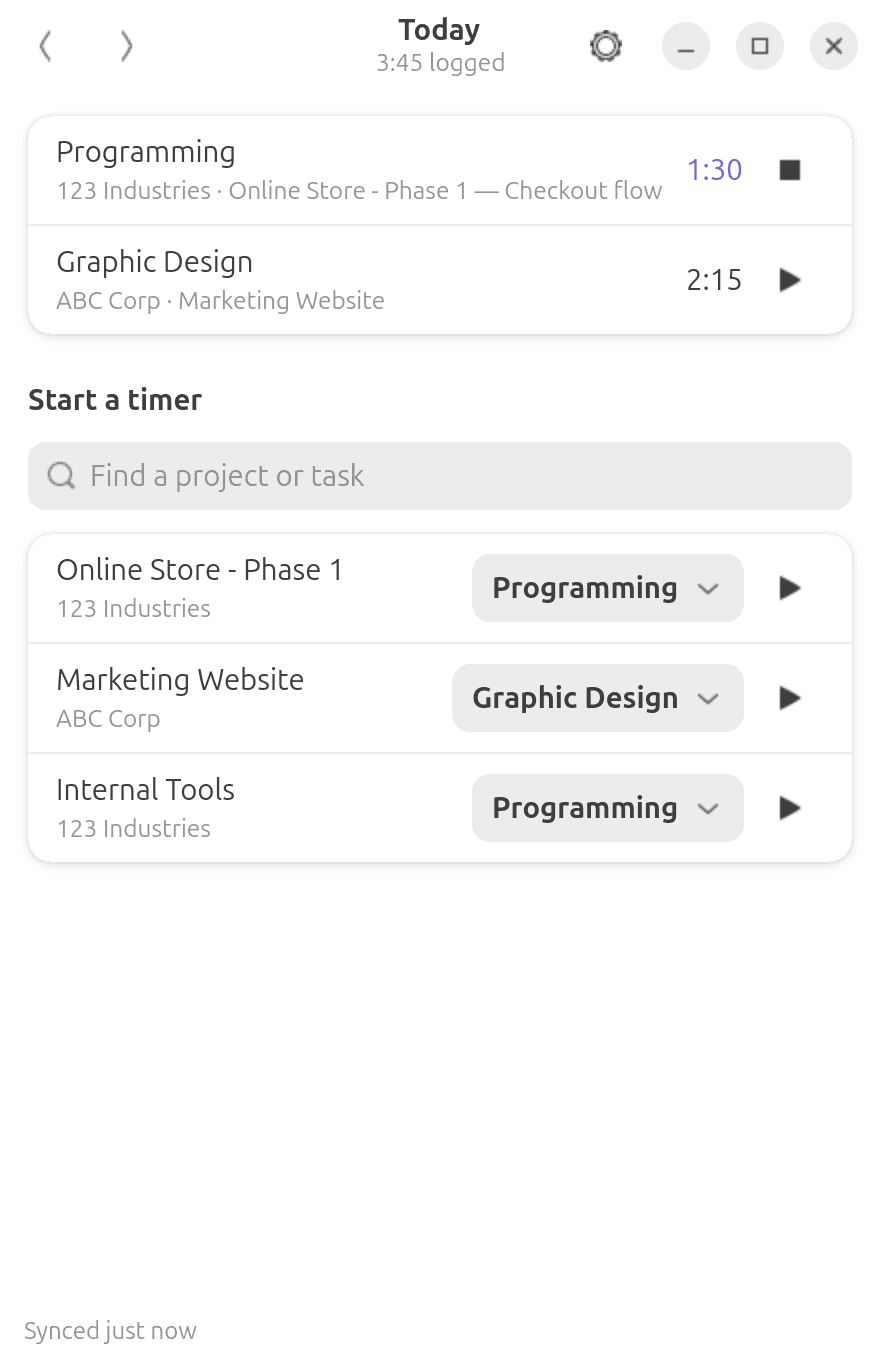
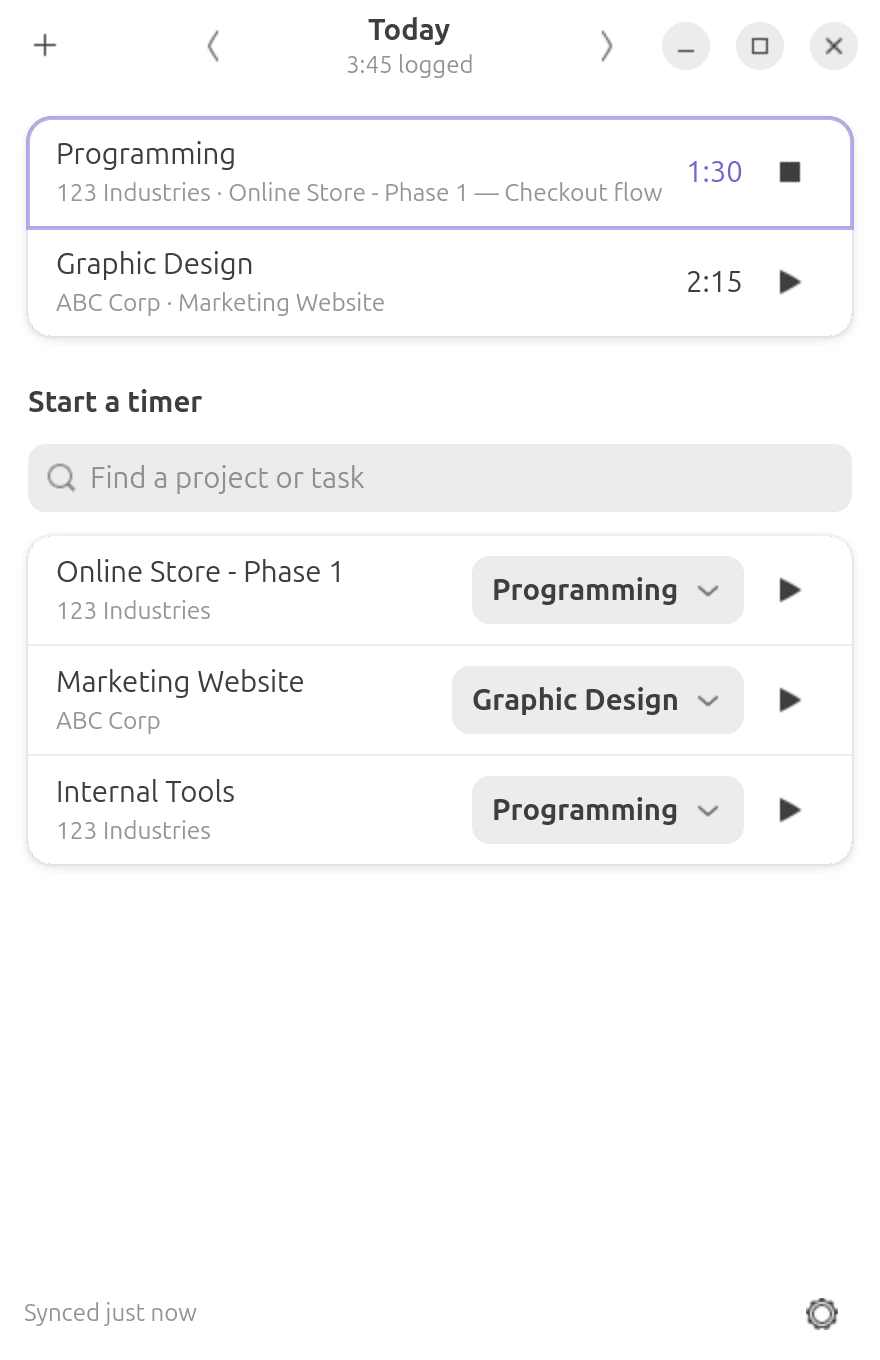
Put the GNOME window's day between its arrows, as the Mac's panel does
The arrows sat at the window's edge with the day centred over the whole window,
and a Today button beside a full date crowded the header. Now the day sits
between its arrows at a fixed width, so they do not move as its name changes,
with the total beneath and, on another day, a "Back to today" link. The month
is abbreviated, as on the Mac. + moves to the start of the header and Settings
to the footer, which leaves room to centre the day.

diff --git a/crates/sheaves-gnome/src/window.rs b/crates/sheaves-gnome/src/window.rs
@@ -33,8 +33,9 @@ pub enum Action {
 
 pub struct Window {
     pub window: adw::ApplicationWindow,
-    title: adw::WindowTitle,
-    today: gtk::Button,
+    day: gtk::Label,
+    total: gtk::Label,
+    today: gtk::Label,
     banner: adw::Banner,
     entries: gtk::ListBox,
     no_entries: gtk::Label,
@@ -52,24 +53,55 @@ pub struct Window {
 
 impl Window {
     pub fn new(app: &adw::Application, actions: async_channel::Sender<Action>) -> Rc<Self> {
-        let title = adw::WindowTitle::new("Sheaves", "");
         let back = gtk::Button::from_icon_name("go-previous-symbolic");
         back.set_tooltip_text(Some("Previous day"));
         let forward = gtk::Button::from_icon_name("go-next-symbolic");
         forward.set_tooltip_text(Some("Next day"));
-        let today = gtk::Button::with_label("Today");
+        // The day between its arrows, as the Mac's panel has it, rather than the
+        // arrows at the window's edge and the day adrift in the middle. Beneath
+        // it the day's total, and on any other day a way back to today, which
+        // as a button of its own crowded a long date.
+        let day = gtk::Label::new(None);
+        day.add_css_class("heading");
+        day.set_ellipsize(gtk::pango::EllipsizeMode::End);
+        let total = gtk::Label::new(None);
+        total.add_css_class("caption");
+        total.add_css_class("dim-label");
+        // A link in a label rather than a link button, whose padding made the
+        // header taller and the window wider.
+        let today = gtk::Label::new(None);
+        today.set_markup("<a href=\"today\">Back to today</a>");
+        today.add_css_class("caption");
+        let below = gtk::Box::new(gtk::Orientation::Horizontal, 6);
+        below.set_halign(gtk::Align::Center);
+        below.append(&total);
+        below.append(&today);
+        // A fixed width, so the arrows stay where they are as the day's name
+        // changes length: clicking back twice would otherwise miss the second
+        // time. Wide enough for the line with the way back to today.
+        let named = gtk::Box::new(gtk::Orientation::Vertical, 0);
+        named.set_valign(gtk::Align::Center);
+        named.set_size_request(150, -1);
+        named.append(&day);
+        named.append(&below);
+        back.set_valign(gtk::Align::Center);
+        forward.set_valign(gtk::Align::Center);
+        let title = gtk::Box::new(gtk::Orientation::Horizontal, 6);
+        title.append(&back);
+        title.append(&named);
+        title.append(&forward);
         let log_time = gtk::Button::from_icon_name("list-add-symbolic");
         log_time.set_tooltip_text(Some("Log time without a timer"));
         let settings = gtk::Button::from_icon_name("emblem-system-symbolic");
         settings.set_tooltip_text(Some("Settings"));
 
         let header = adw::HeaderBar::new();
+        // Only + beside the day, at the start where GNOME puts "add": with
+        // Settings there too, and the window's own buttons, the day could not be
+        // centred at the window's usual width. Settings is in the footer, as on
+        // the Mac.
         header.set_title_widget(Some(&title));
-        header.pack_start(&back);
-        header.pack_start(&forward);
-        header.pack_start(&today);
-        header.pack_end(&settings);
-        header.pack_end(&log_time);
+        header.pack_start(&log_time);
 
         let banner = adw::Banner::new("");
 
@@ -132,7 +164,10 @@ impl Window {
         footer.set_margin_end(12);
         footer.set_margin_top(6);
         footer.set_margin_bottom(6);
+        status.set_hexpand(true);
+        settings.add_css_class("flat");
         footer.append(&status);
+        footer.append(&settings);
 
         let body = gtk::Box::new(gtk::Orientation::Vertical, 0);
         body.append(&banner);
@@ -161,7 +196,14 @@ impl Window {
         };
         back.connect_clicked(send(Action::ShiftDay(-1)));
         forward.connect_clicked(send(Action::ShiftDay(1)));
-        today.connect_clicked(send(Action::Today));
+        {
+            let actions = actions.clone();
+            // A link with nowhere to go: the click is the action.
+            today.connect_activate_link(move |_, _| {
+                let _ = actions.try_send(Action::Today);
+                glib::Propagation::Stop
+            });
+        }
         settings.connect_clicked(send(Action::OpenSettings));
         log_time.connect_clicked(send(Action::LogTime));
         {
@@ -178,7 +220,8 @@ impl Window {
 
         Rc::new(Self {
             window,
-            title,
+            day,
+            total,
             today,
             banner,
             entries,
@@ -202,8 +245,8 @@ impl Window {
         } else {
             format::day(state.day)
         };
-        self.title.set_title(&day);
-        self.title.set_subtitle(&format!(
+        self.day.set_label(&day);
+        self.total.set_label(&format!(
             "{} logged",
             format::hours(snapshot.total_hours, format)
         ));

diff --git a/crates/sheaves-gnome/src/documentation.rs b/crates/sheaves-gnome/src/documentation.rs
@@ -61,6 +61,22 @@ pub fn render(directory: PathBuf) -> glib::ExitCode {
                 &failed,
             );
 
+            // Another day, for the way back to today beneath it.
+            tracker.shift_day(-1).await;
+            window.render(&tracker.snapshot());
+            glib::timeout_future(Duration::from_millis(300)).await;
+            report(
+                write(
+                    &content,
+                    &window,
+                    &directory.join("gnome-window-another-day.png"),
+                ),
+                &failed,
+            );
+            tracker.go_to_today().await;
+            window.render(&tracker.snapshot());
+            glib::timeout_future(Duration::from_millis(300)).await;
+
             // The absence prompt, over the window, for an hour away from the
             // demo account's running timer.
             let snapshot = tracker.snapshot();

diff --git a/crates/sheaves-gnome/src/format.rs b/crates/sheaves-gnome/src/format.rs
@@ -64,7 +64,9 @@ pub fn day(day: CalendarDate) -> String {
         0,
         0.0,
     );
-    date.and_then(|date| date.format("%A %e %B"))
+    // The month abbreviated, as the Mac has it: in the window's header the full
+    // name made the day too long to sit between its arrows.
+    date.and_then(|date| date.format("%A %e %b"))
         .map(|text| text.split_whitespace().collect::<Vec<_>>().join(" "))
         .unwrap_or_else(|_| day.to_string())
 }

diff --git a/docs/gnome-port.md b/docs/gnome-port.md
@@ -525,6 +525,13 @@ it on Ubuntu 26.04, the release Hostess runs.
   `Scripts/render-mac-app-icon.sh`.
 - **`SHEAVES_RENDER=<folder>`** in a debug build draws the window from the demo
   account to `gnome-window.png`, as the Mac's documentation images do.
+- **The header follows the Mac's panel,** changed on 2026-11-04 after Peter found
+  the first layout awkward: the day between its arrows, with the day's total
+  beneath and, on any other day, a "Back to today" link, where a Today button
+  beside the full date had crowded it. The day has a fixed width so the arrows do
+  not move as its name changes. Only + shares the header, at the start; Settings
+  is in the footer, as on the Mac, because with it and the window's own buttons
+  the day could not be centred at the window's usual width.
 - **Not in this phase:** the power source (the tracker assumes mains power, which
   Hostess is), editing notes or hours (phase 8), presence and its prompt, and the
   peers field (phase 7).
